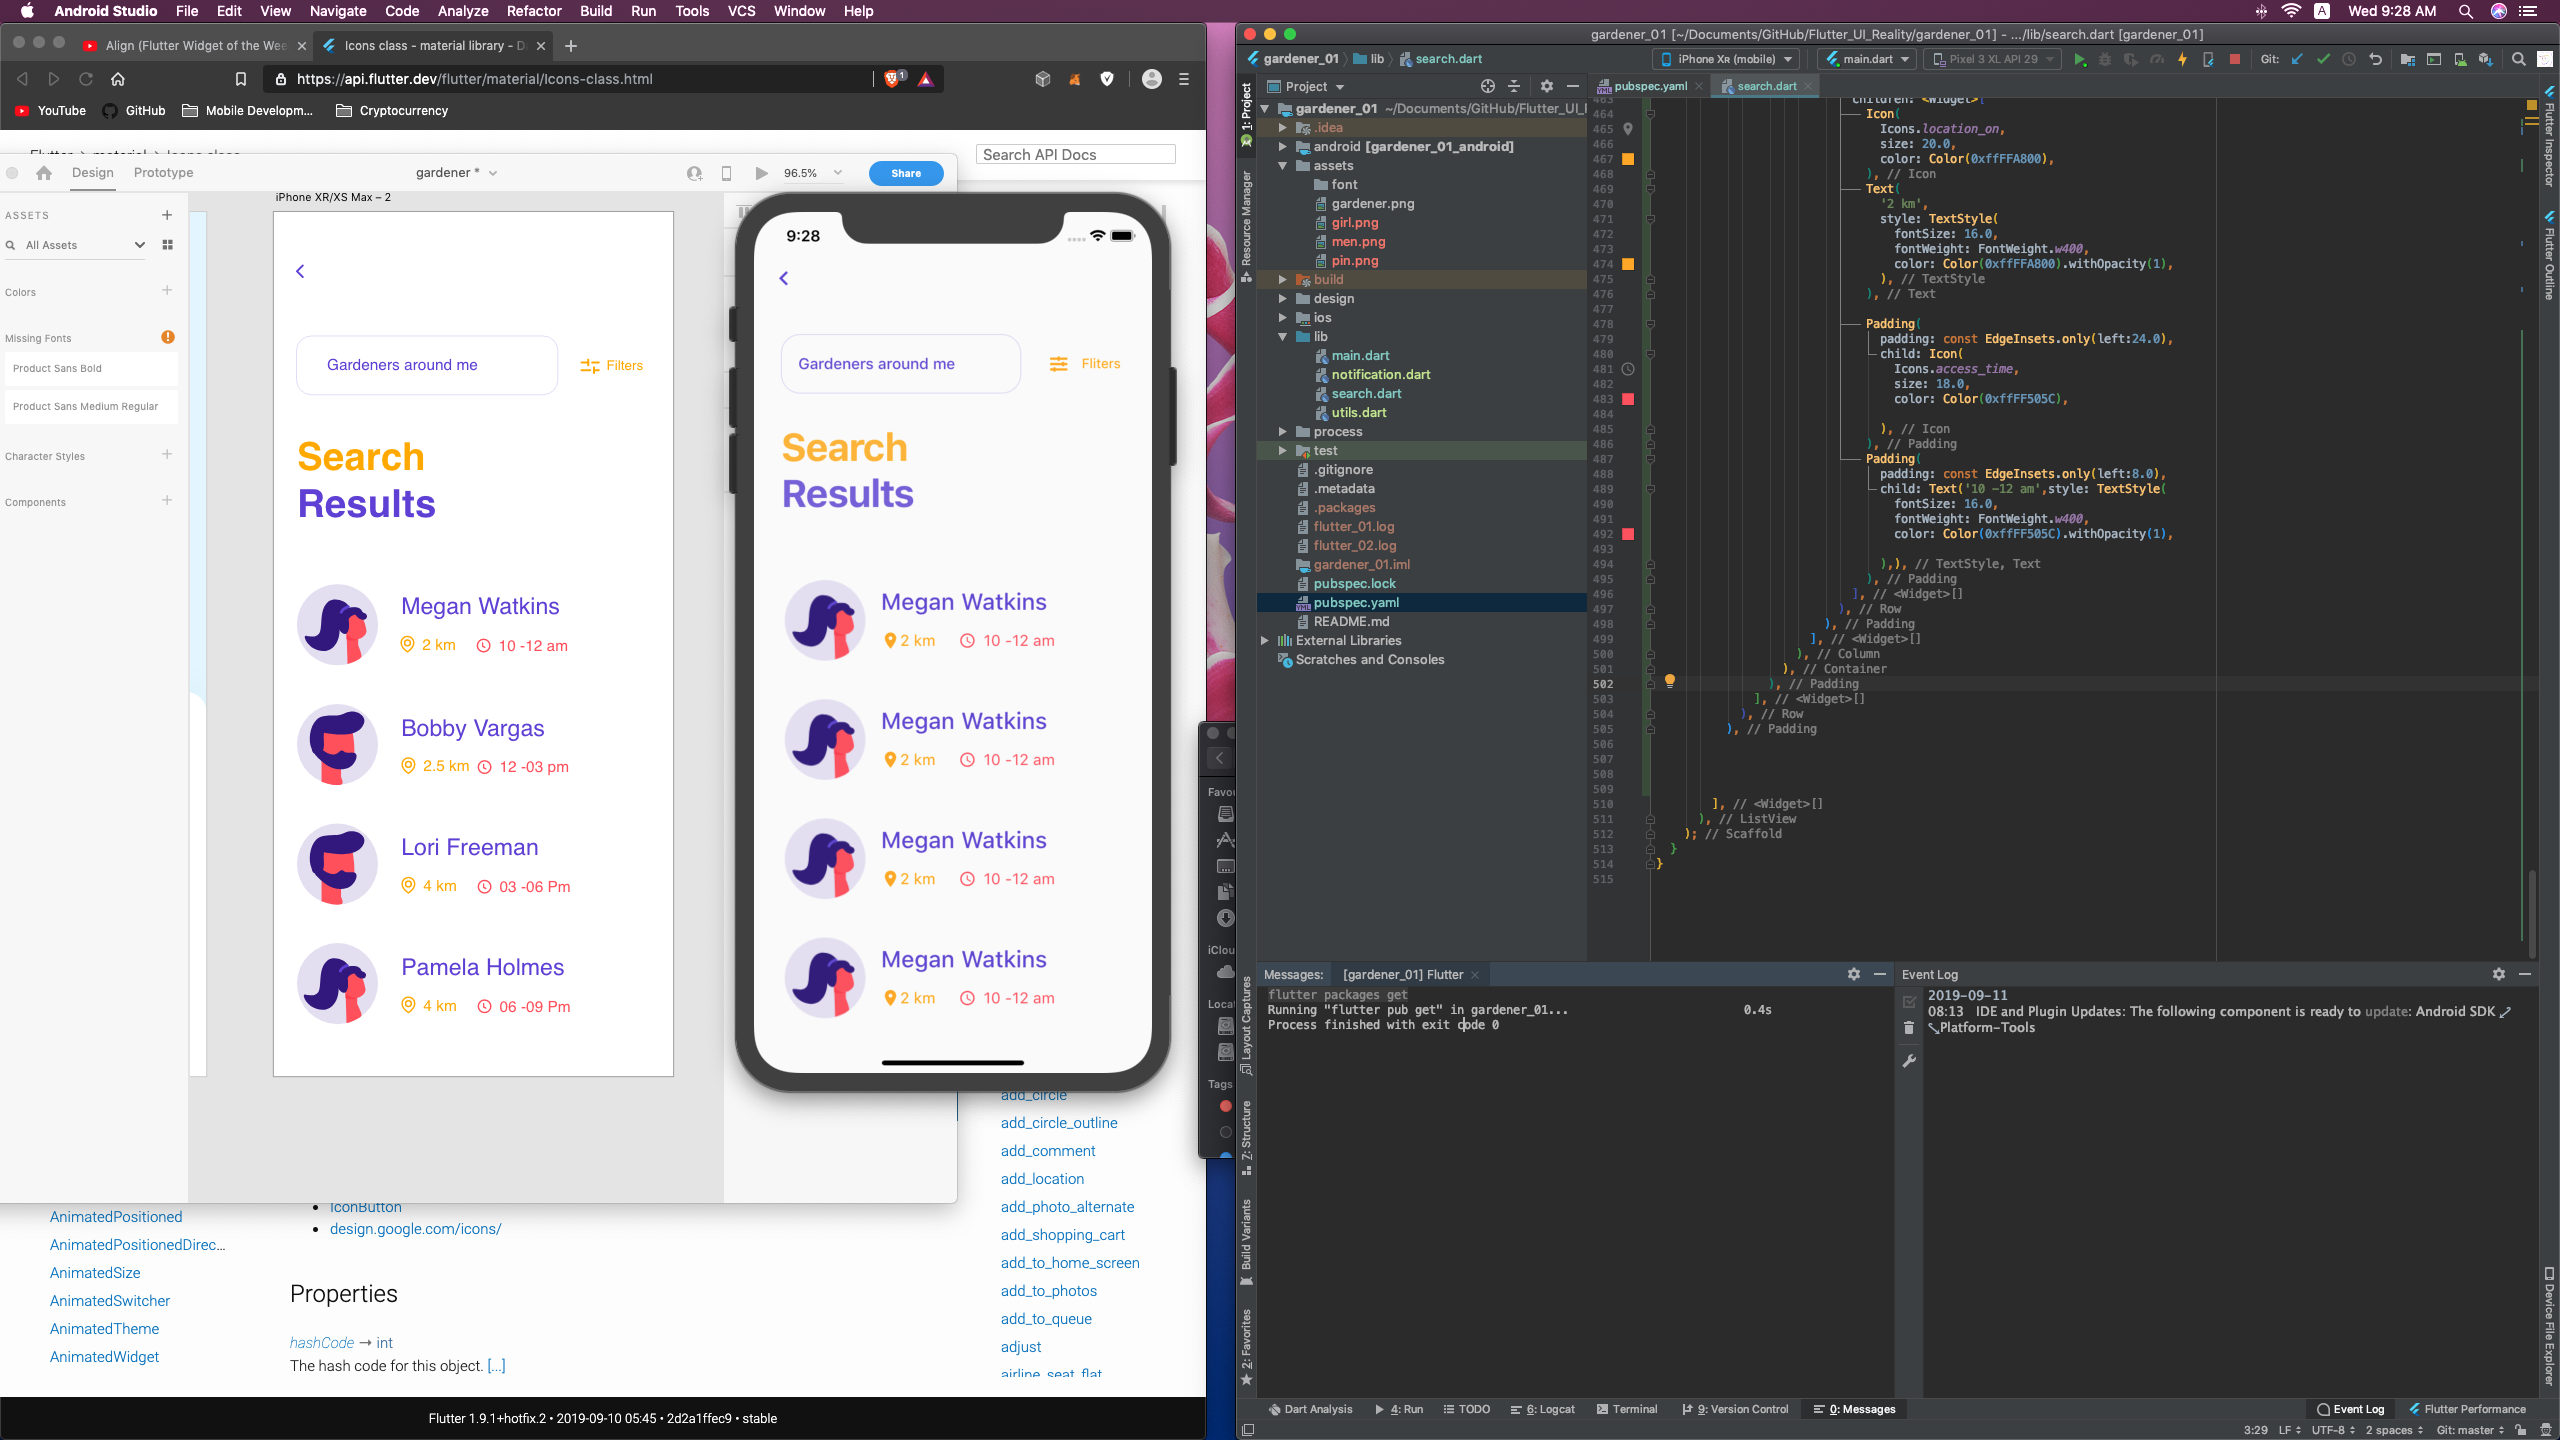
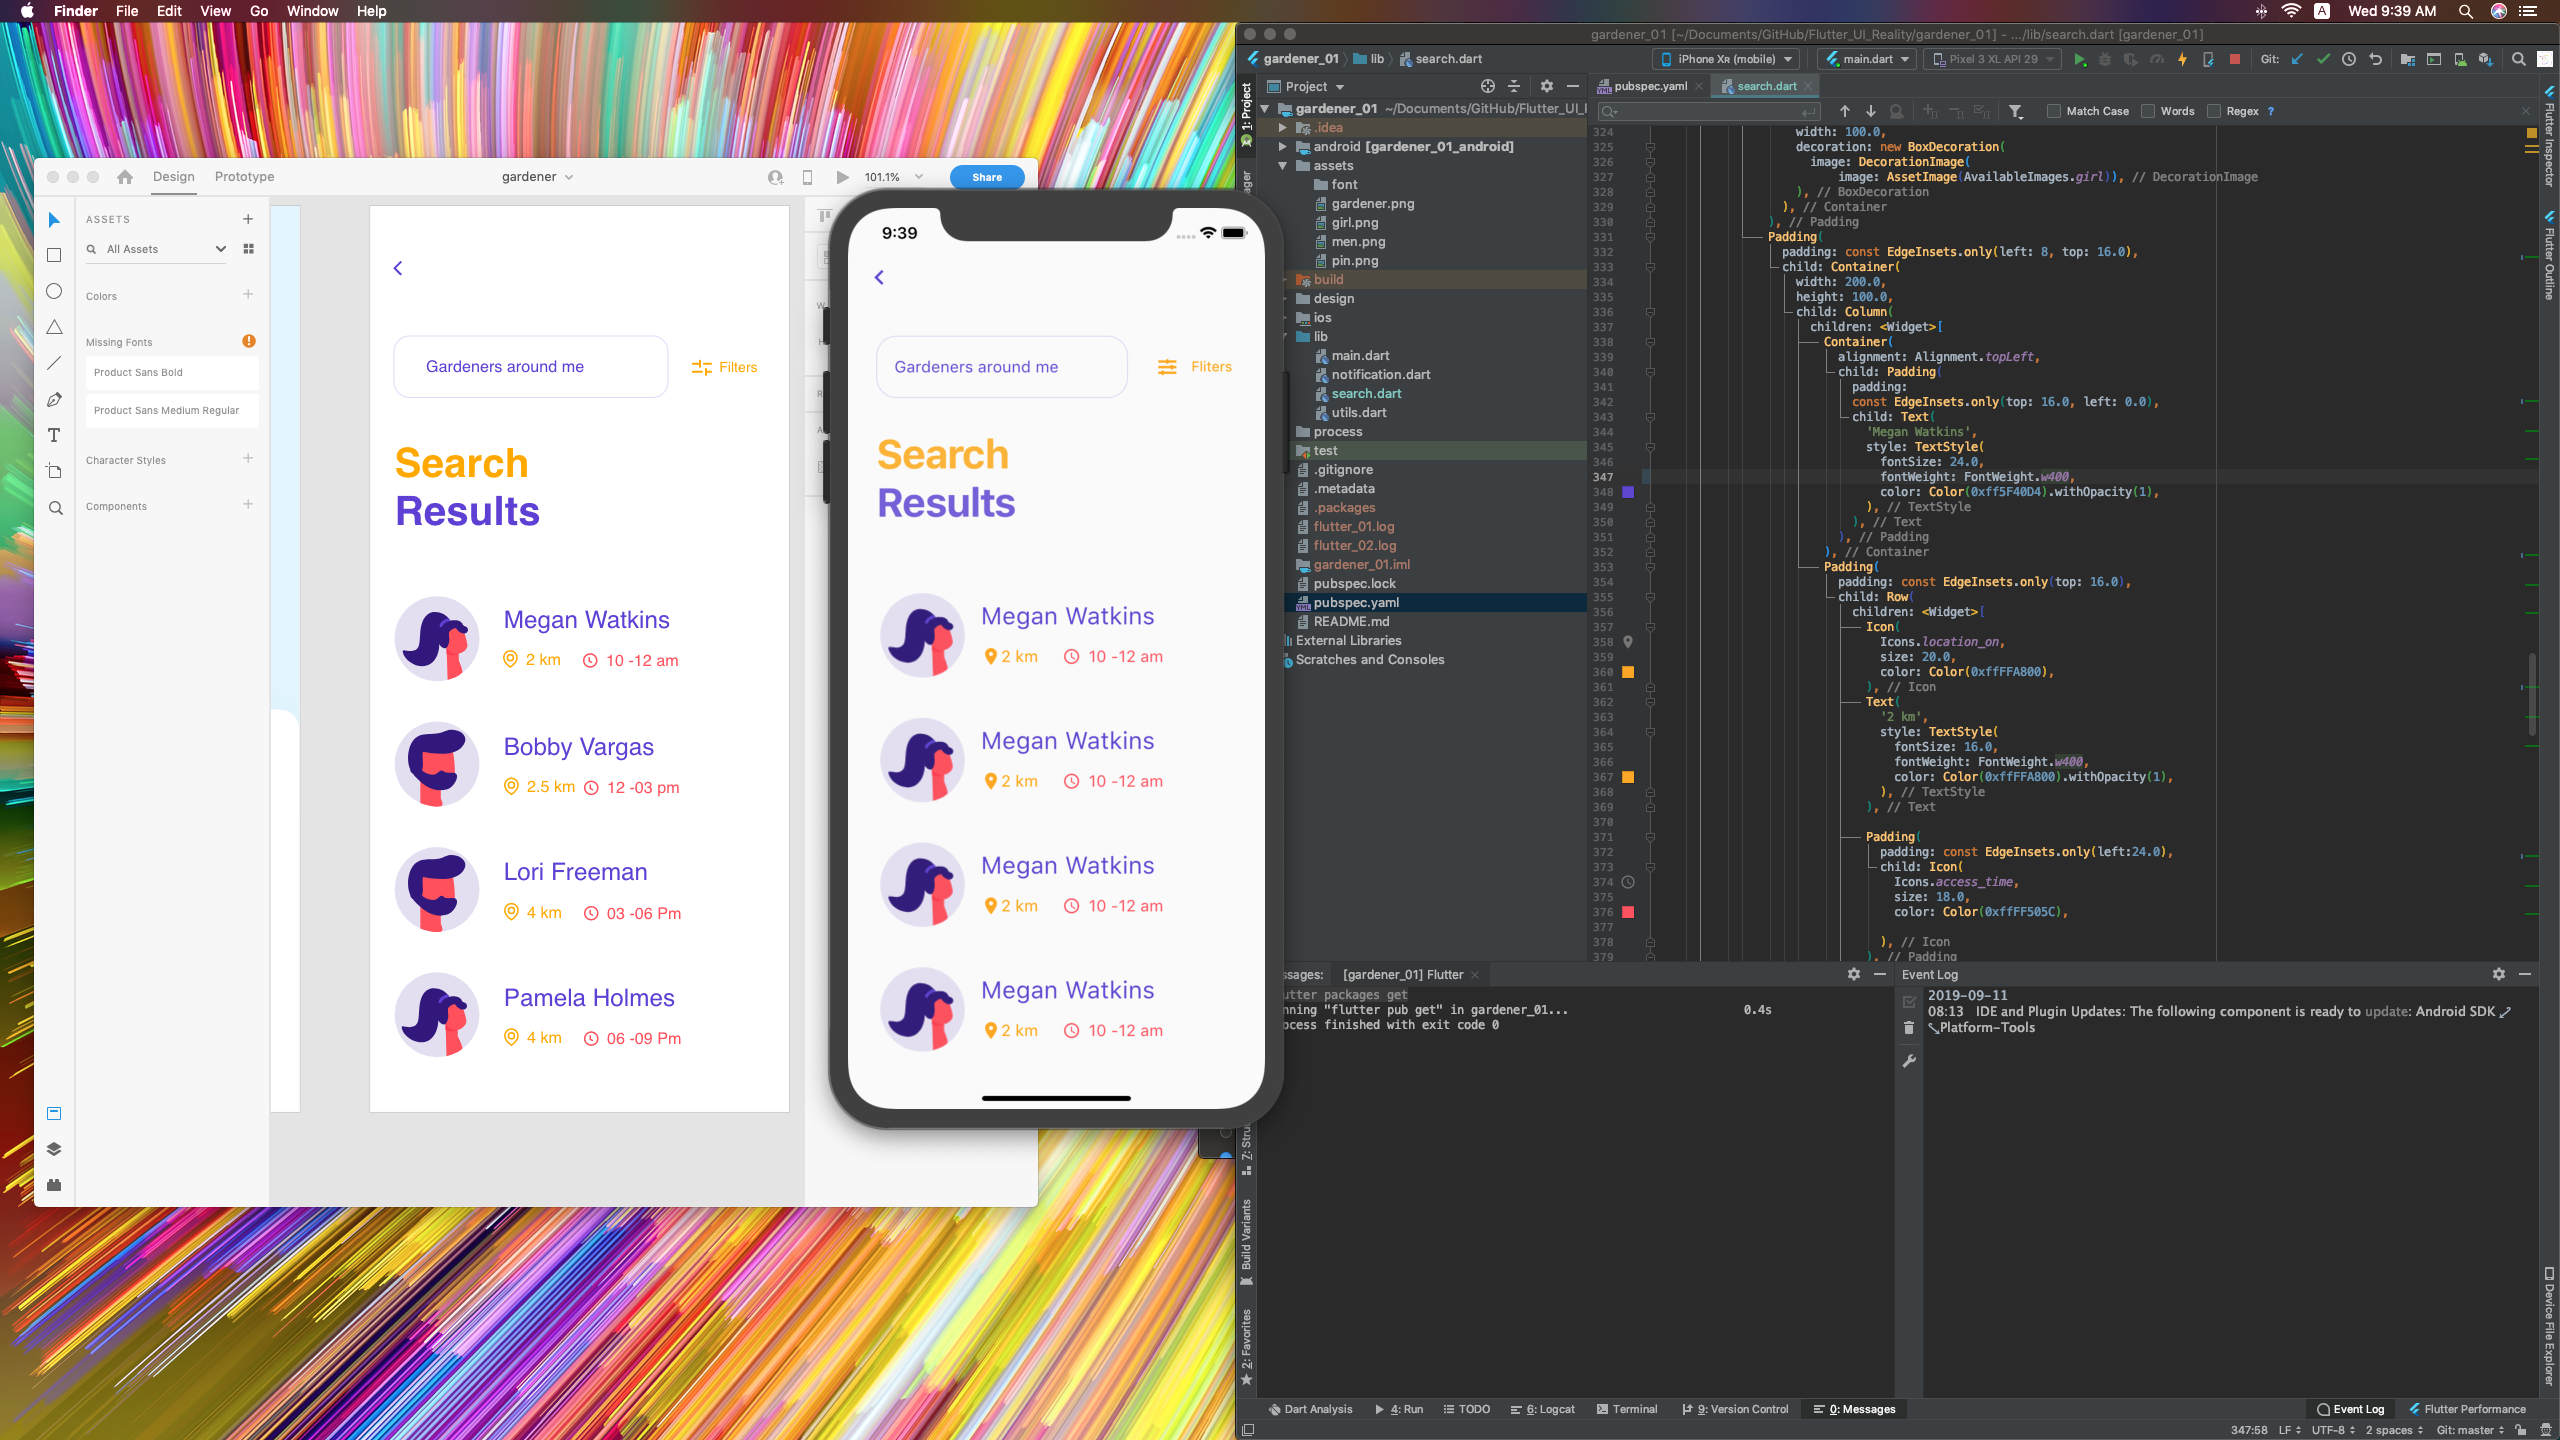
update

diff --git a/gardener_01/lib/search.dart b/gardener_01/lib/search.dart
@@ -71,7 +71,7 @@ class _SearchPageState extends State<SearchPage> {
                         'Gardeners around me',
                         style: TextStyle(
                           fontSize: 16.0,
-                          fontWeight: FontWeight.w500,
+                          fontWeight: FontWeight.w400,
                           color: Color(0xff5F40D4),
                         ),
                       ),
@@ -162,7 +162,7 @@ class _SearchPageState extends State<SearchPage> {
                               'Megan Watkins',
                               style: TextStyle(
                                 fontSize: 24.0,
-                                fontWeight: FontWeight.w500,
+                                fontWeight: FontWeight.w400,
                                 color: Color(0xff5F40D4).withOpacity(1),
                               ),
                             ),
@@ -260,7 +260,7 @@ class _SearchPageState extends State<SearchPage> {
                               'Megan Watkins',
                               style: TextStyle(
                                 fontSize: 24.0,
-                                fontWeight: FontWeight.w500,
+                                fontWeight: FontWeight.w400,
                                 color: Color(0xff5F40D4).withOpacity(1),
                               ),
                             ),
@@ -344,7 +344,7 @@ class _SearchPageState extends State<SearchPage> {
                               'Megan Watkins',
                               style: TextStyle(
                                 fontSize: 24.0,
-                                fontWeight: FontWeight.w500,
+                                fontWeight: FontWeight.w400,
                                 color: Color(0xff5F40D4).withOpacity(1),
                               ),
                             ),
@@ -451,7 +451,7 @@ class _SearchPageState extends State<SearchPage> {
                               'Megan Watkins',
                               style: TextStyle(
                                 fontSize: 24.0,
-                                fontWeight: FontWeight.w500,
+                                fontWeight: FontWeight.w400,
                                 color: Color(0xff5F40D4).withOpacity(1),
                               ),
                             ),
